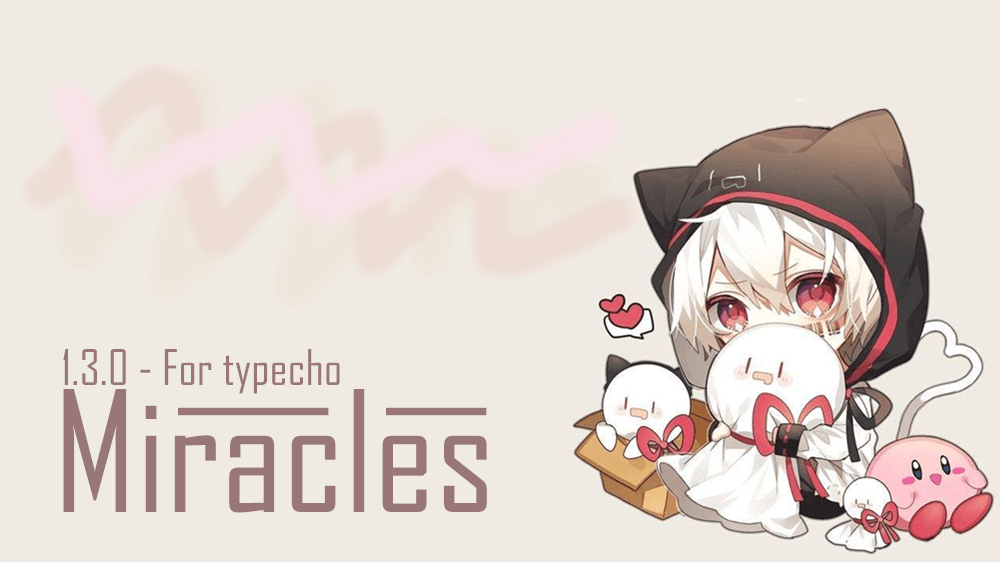
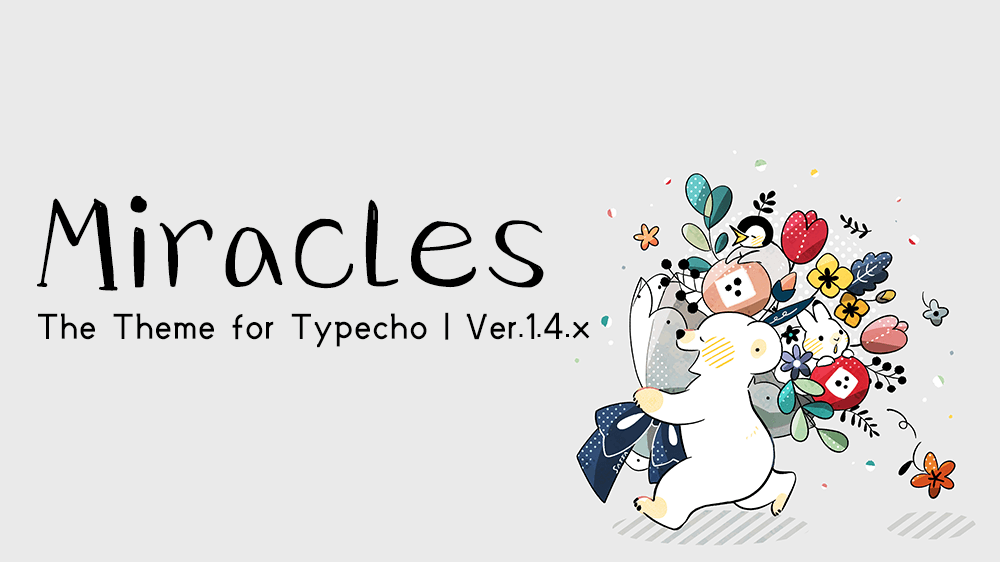
🎨Add: 全新主题图

Changed region(s): [[0.031, 0.1815, 1.0, 0.9982], [0.031, 0.3327, 0.558, 0.5142]]

diff --git a/README.md b/README.md
@@ -1,4 +1,4 @@
-![](banner.jpg)
+![](banner.png)
 
 <p align="center">
 <img src="https://img.shields.io/badge/build-passing-brightgreen.svg?style=flat-square"> 
